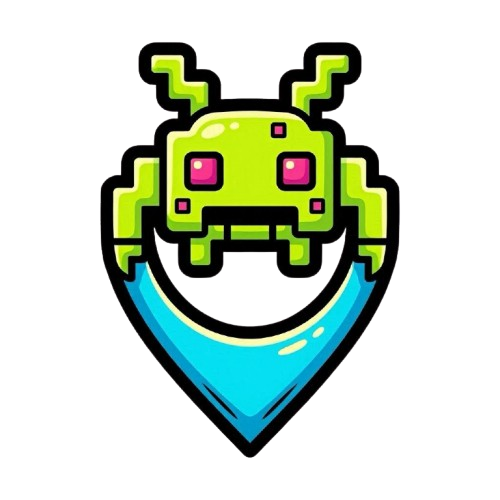
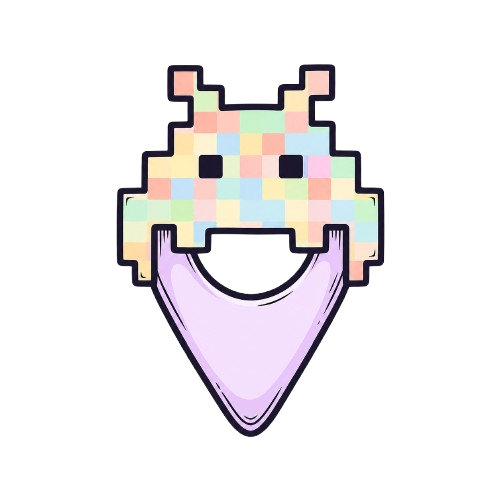
fix[ALL]:: fix space invader request and add new marker

diff --git a/apps/web/src/components/panel/filters.tsx b/apps/web/src/components/panel/filters.tsx
@@ -6,12 +6,14 @@ import markerDefault from '@/assets/markers/marker-default.png';
 import markerBook from '@/assets/markers/marker-book.png';
 import markerMusic from '@/assets/markers/music-marker.png';
 import markerTree from '@/assets/markers/marker-tree.png';
+import markerKids from '@/assets/markers/marker-kids.png';
+import markerTheatre from '@/assets/markers/marker-theatre.png';
 
 const CATEGORY_OPTIONS: Array<{value: EventTag; accent: string; icon: string}> = [
   {value: 'Art contemporain', accent: 'accent-rose-400', icon: markerDefault},
   {value: 'Conférence', accent: 'accent-sky-400', icon: markerDefault},
   {value: 'Concert', accent: 'accent-violet-400', icon: markerMusic},
-  {value: 'Enfants', accent: 'accent-amber-400', icon: markerDefault},
+  {value: 'Enfants', accent: 'accent-amber-400', icon: markerKids},
   {value: 'Expo', accent: 'accent-cyan-500', icon: markerDefault},
   {value: 'Festival', accent: 'accent-fuchsia-400', icon: markerMusic},
   {value: 'Gourmand', accent: 'accent-orange-400', icon: markerDefault},
@@ -19,8 +21,8 @@ const CATEGORY_OPTIONS: Array<{value: EventTag; accent: string; icon: string}> =
   {value: 'Littérature', accent: 'accent-yellow-600', icon: markerBook},
   {value: 'Loisirs', accent: 'accent-blue-400', icon: markerDefault},
   {value: 'Nature', accent: 'accent-green-400', icon: markerTree},
-  {value: 'Spectacle musical', accent: 'accent-pink-400', icon: markerDefault},
-  {value: 'Théâtre', accent: 'accent-red-400', icon: markerDefault},
+  {value: 'Spectacle musical', accent: 'accent-pink-400', icon: markerMusic},
+  {value: 'Théâtre', accent: 'accent-red-400', icon: markerTheatre},
 ];
 
 interface FiltersProps {

diff --git a/apps/web/src/components/map/event-layers.ts b/apps/web/src/components/map/event-layers.ts
@@ -3,6 +3,8 @@ import defaultMarkerImageUrl from '@/assets/markers/marker-default.png';
 import musicMarkerImageUrl from '@/assets/markers/music-marker.png';
 import treeMarkerImageUrl from '@/assets/markers/marker-tree.png';
 import bookMarkerImageUrl from '@/assets/markers/marker-book.png';
+import kidsMarkerImageUrl from '@/assets/markers/marker-kids.png';
+import theatreMarkerImageUrl from '@/assets/markers/marker-theatre.png';
 import {applyMarkerEntranceBounce} from '@/utils/map-utils';
 import {
   EVENT_CLUSTER_COUNT_LAYER_ID,
@@ -38,6 +40,8 @@ export const addEventMarkerImages = async (targetMap: maplibregl.Map): Promise<v
     {id: EVENT_MARKER_IMAGE_IDS.music, src: musicMarkerImageUrl},
     {id: EVENT_MARKER_IMAGE_IDS.tree, src: treeMarkerImageUrl},
     {id: EVENT_MARKER_IMAGE_IDS.book, src: bookMarkerImageUrl},
+    {id: EVENT_MARKER_IMAGE_IDS.kids, src: kidsMarkerImageUrl},
+    {id: EVENT_MARKER_IMAGE_IDS.theatre, src: theatreMarkerImageUrl},
   ];
 
   await Promise.all(
@@ -139,6 +143,8 @@ const EVENT_MARKER_IMAGE_URL_BY_ID: Record<EventMarkerImageId, string> = {
   [EVENT_MARKER_IMAGE_IDS.music]: musicMarkerImageUrl,
   [EVENT_MARKER_IMAGE_IDS.tree]: treeMarkerImageUrl,
   [EVENT_MARKER_IMAGE_IDS.book]: bookMarkerImageUrl,
+  [EVENT_MARKER_IMAGE_IDS.kids]: kidsMarkerImageUrl,
+  [EVENT_MARKER_IMAGE_IDS.theatre]: theatreMarkerImageUrl,
 };
 
 export const createEventMarkerElement = (markerIcon: EventMarkerImageId, delayMs = 0): HTMLElement => {

diff --git a/apps/api/src/space-invaders/space-invaders.service.ts b/apps/api/src/space-invaders/space-invaders.service.ts
@@ -3,9 +3,10 @@ import {RedisService} from '../redis/redis.service';
 import {InvadersOverpassElement} from '@wander/types';
 
 const CACHE_KEY = 'space-invaders';
-const CACHE_TTL = 86400;
+const CACHE_TTL = 172800;
 const OVERPASS_URL = 'https://overpass-api.de/api/interpreter';
-const OVERPASS_QUERY = '[out:json];node["artwork_type"="mosaic"]["artist_name"="Invader"](48.1,1.4,49.2,3.6);out;';
+const OVERPASS_QUERY =
+  '[out:json];node["artwork_type"="mosaic"]["artist_name"="Invader"](48.1,1.4,49.2,3.6);out center;';
 
 @Injectable()
 export class SpaceInvadersService {
@@ -22,8 +23,9 @@ export class SpaceInvadersService {
         method: 'POST',
         headers: {
           'Content-Type': 'application/x-www-form-urlencoded',
-          Accept: '*/*',
-          'User-Agent': 'curl/7.88.1',
+          Accept: 'application/json,text/plain,*/*',
+          'Accept-Language': 'en-US,en;q=0.9',
+          'User-Agent': 'Wander/1.0',
         },
         body: OVERPASS_QUERY,
       });
@@ -36,7 +38,7 @@ export class SpaceInvadersService {
       await this.redisService.set(CACHE_KEY, data.elements, CACHE_TTL);
       return data.elements;
     } catch (error) {
-      this.logger.error('SpaceInvadersService.getSpaceInvaders failed');
+      this.logger.error('SpaceInvadersService.getSpaceInvaders failed', error);
       throw new InternalServerErrorException('Failed to fetch Space Invaders data');
     }
   }

diff --git a/apps/web/src/components/map/events-geojson.ts b/apps/web/src/components/map/events-geojson.ts
@@ -5,6 +5,8 @@ export const EVENT_MARKER_IMAGE_IDS = {
   music: 'event-marker-music',
   tree: 'event-marker-tree',
   book: 'event-marker-book',
+  kids: 'event-marker-kids',
+  theatre: 'event-marker-theatre',
 } as const;
 
 export type EventMarkerImageId = (typeof EVENT_MARKER_IMAGE_IDS)[keyof typeof EVENT_MARKER_IMAGE_IDS];
@@ -53,6 +55,10 @@ export const getEventMarkerImageId = (tags: EventTag[]): EventMarkerImageId => {
         return EVENT_MARKER_IMAGE_IDS.tree;
       case 'Littérature':
         return EVENT_MARKER_IMAGE_IDS.book;
+      case 'Enfants':
+        return EVENT_MARKER_IMAGE_IDS.kids;
+      case 'Théâtre':
+        return EVENT_MARKER_IMAGE_IDS.theatre;
       default:
         break;
     }

diff --git a/apps/api/src/filters/tests/filters.test.spec.ts b/apps/api/src/filters/tests/filters.test.spec.ts
@@ -8,7 +8,13 @@ describe('QueryFilterDto', () => {
   const validGeo = {lat: 48.8566, lng: 2.3522, radius: 5};
 
   it('accepts valid query with tag and price', async () => {
-    const dto = toDto({...validGeo, tag: 'Concert', price: 'free', limit: 20});
+    const dto = toDto({...validGeo, tags: ['Concert'], price: 'free', limit: 20});
+    const errors = await validate(dto);
+    expect(errors).toHaveLength(0);
+  });
+
+  it('accepts literature tag with accent', async () => {
+    const dto = toDto({...validGeo, tags: ['Littérature']});
     const errors = await validate(dto);
     expect(errors).toHaveLength(0);
   });

diff --git a/apps/web/src/api/features/events/useEvents.ts b/apps/web/src/api/features/events/useEvents.ts
@@ -34,12 +34,12 @@ export const useEvents = () => {
     },
   });
 
-  const {data} = queryResult;
+  const {data, isPlaceholderData} = queryResult;
 
   useEffect(() => {
-    if (!eventsEnabled || data === undefined) return;
+    if (!eventsEnabled || data === undefined || isPlaceholderData) return;
     useEventsMapStore.getState().mergeEvents(data);
-  }, [eventsEnabled, data, eventsAccumulatorEpoch]);
+  }, [eventsEnabled, data, isPlaceholderData, eventsAccumulatorEpoch]);
 
   return queryResult;
 };

diff --git a/apps/api/src/space-invaders/tests/space-invaders.service.spec.ts b/apps/api/src/space-invaders/tests/space-invaders.service.spec.ts
@@ -60,7 +60,7 @@ describe('SpaceInvadersService', () => {
       const result = await service.getSpaceInvaders();
 
       expect(result).toEqual([mockElement]);
-      expect(mockRedisService.set).toHaveBeenCalledWith('space-invaders', [mockElement], 86400);
+      expect(mockRedisService.set).toHaveBeenCalledWith('space-invaders', [mockElement], 172800);
     });
 
     it('throws InternalServerErrorException when Overpass responds with non-ok status', async () => {

diff --git a/apps/web/src/api/features/space-invaders/useSpaceInvaders.ts b/apps/web/src/api/features/space-invaders/useSpaceInvaders.ts
@@ -9,6 +9,6 @@ export const useSpaceInvaders = () => {
       const {data} = await apiClient.get<InvadersOverpassElement[]>('/space-invaders');
       return data;
     },
-    staleTime: 1000 * 60 * 60 * 24,
+    staleTime: 1000 * 60 * 60 * 24 * 2,
   });
 };

diff --git a/apps/api/src/filters/dtos/query-filter.dto.ts b/apps/api/src/filters/dtos/query-filter.dto.ts
@@ -12,6 +12,7 @@ const ALLOWED_TAGS: EventTag[] = [
   'Festival',
   'Gourmand',
   'Histoire',
+  'Littérature',
   'Loisirs',
   'Nature',
   'Spectacle musical',

diff --git a/apps/api/src/paris-events/paris-events.service.ts b/apps/api/src/paris-events/paris-events.service.ts
@@ -20,6 +20,7 @@ const ALLOWED_TAGS: EventTag[] = [
   'Festival',
   'Gourmand',
   'Histoire',
+  'Littérature',
   'Loisirs',
   'Nature',
   'Spectacle musical',
